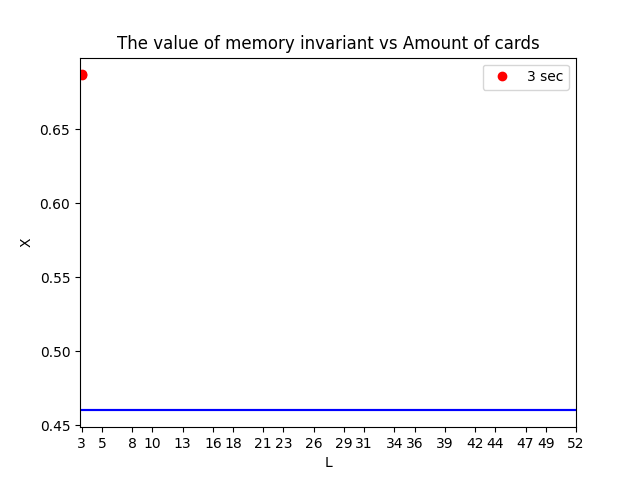
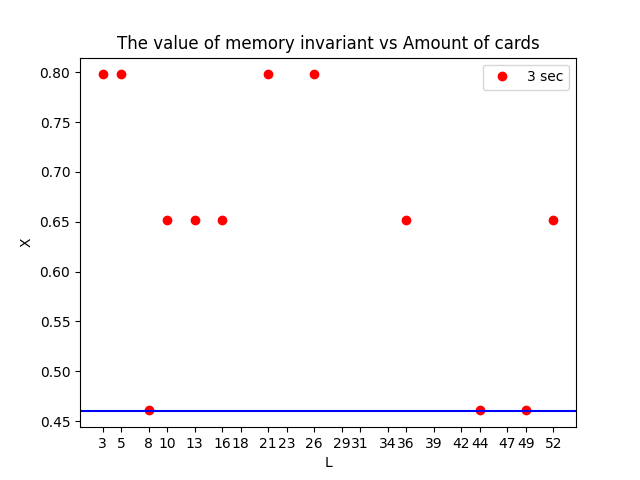
upd....

diff --git a/Memory Card Game/graph.py b/Memory Card Game/graph.py
@@ -21,7 +21,7 @@ class Graph:
             self.__new_c_data = {i:j for i,j in list(zip(self.__n_card,list(np.zeros(20))))}
             self.__new_c_data[self.__size_sol] = self.__correct
             self.__new_r_data = {i:j for i,j in list(zip(self.__n_card,list(np.zeros(20))))}
-            self.__new_r_data[self.__size_sol] = 3*np.pi*self.__size_ans/2
+            self.__new_r_data[self.__size_sol] = 3*np.pi*self.__size_sol/2
             
             self.__c_data.loc[len(self.__c_data.index)] = self.__new_c_data.values()
             self.__r_data.loc[len(self.__r_data.index)] = self.__new_r_data.values()
@@ -35,7 +35,7 @@ class Graph:
             self.__new_c_data = {i:j for i,j in list(zip(self.__n_card,list(np.zeros(20))))}
             self.__new_c_data[self.__size_sol] = self.__correct
             self.__new_r_data = {i:j for i,j in list(zip(self.__n_card,list(np.zeros(20))))}
-            self.__new_r_data[self.__size_sol] = 3*np.pi*self.__size_ans/2
+            self.__new_r_data[self.__size_sol] = 3*np.pi*self.__size_sol/2
             
             self.__c_data.loc[len(self.__c_data.index)] = self.__new_c_data.values()
             self.__r_data.loc[len(self.__r_data.index)] = self.__new_r_data.values()
